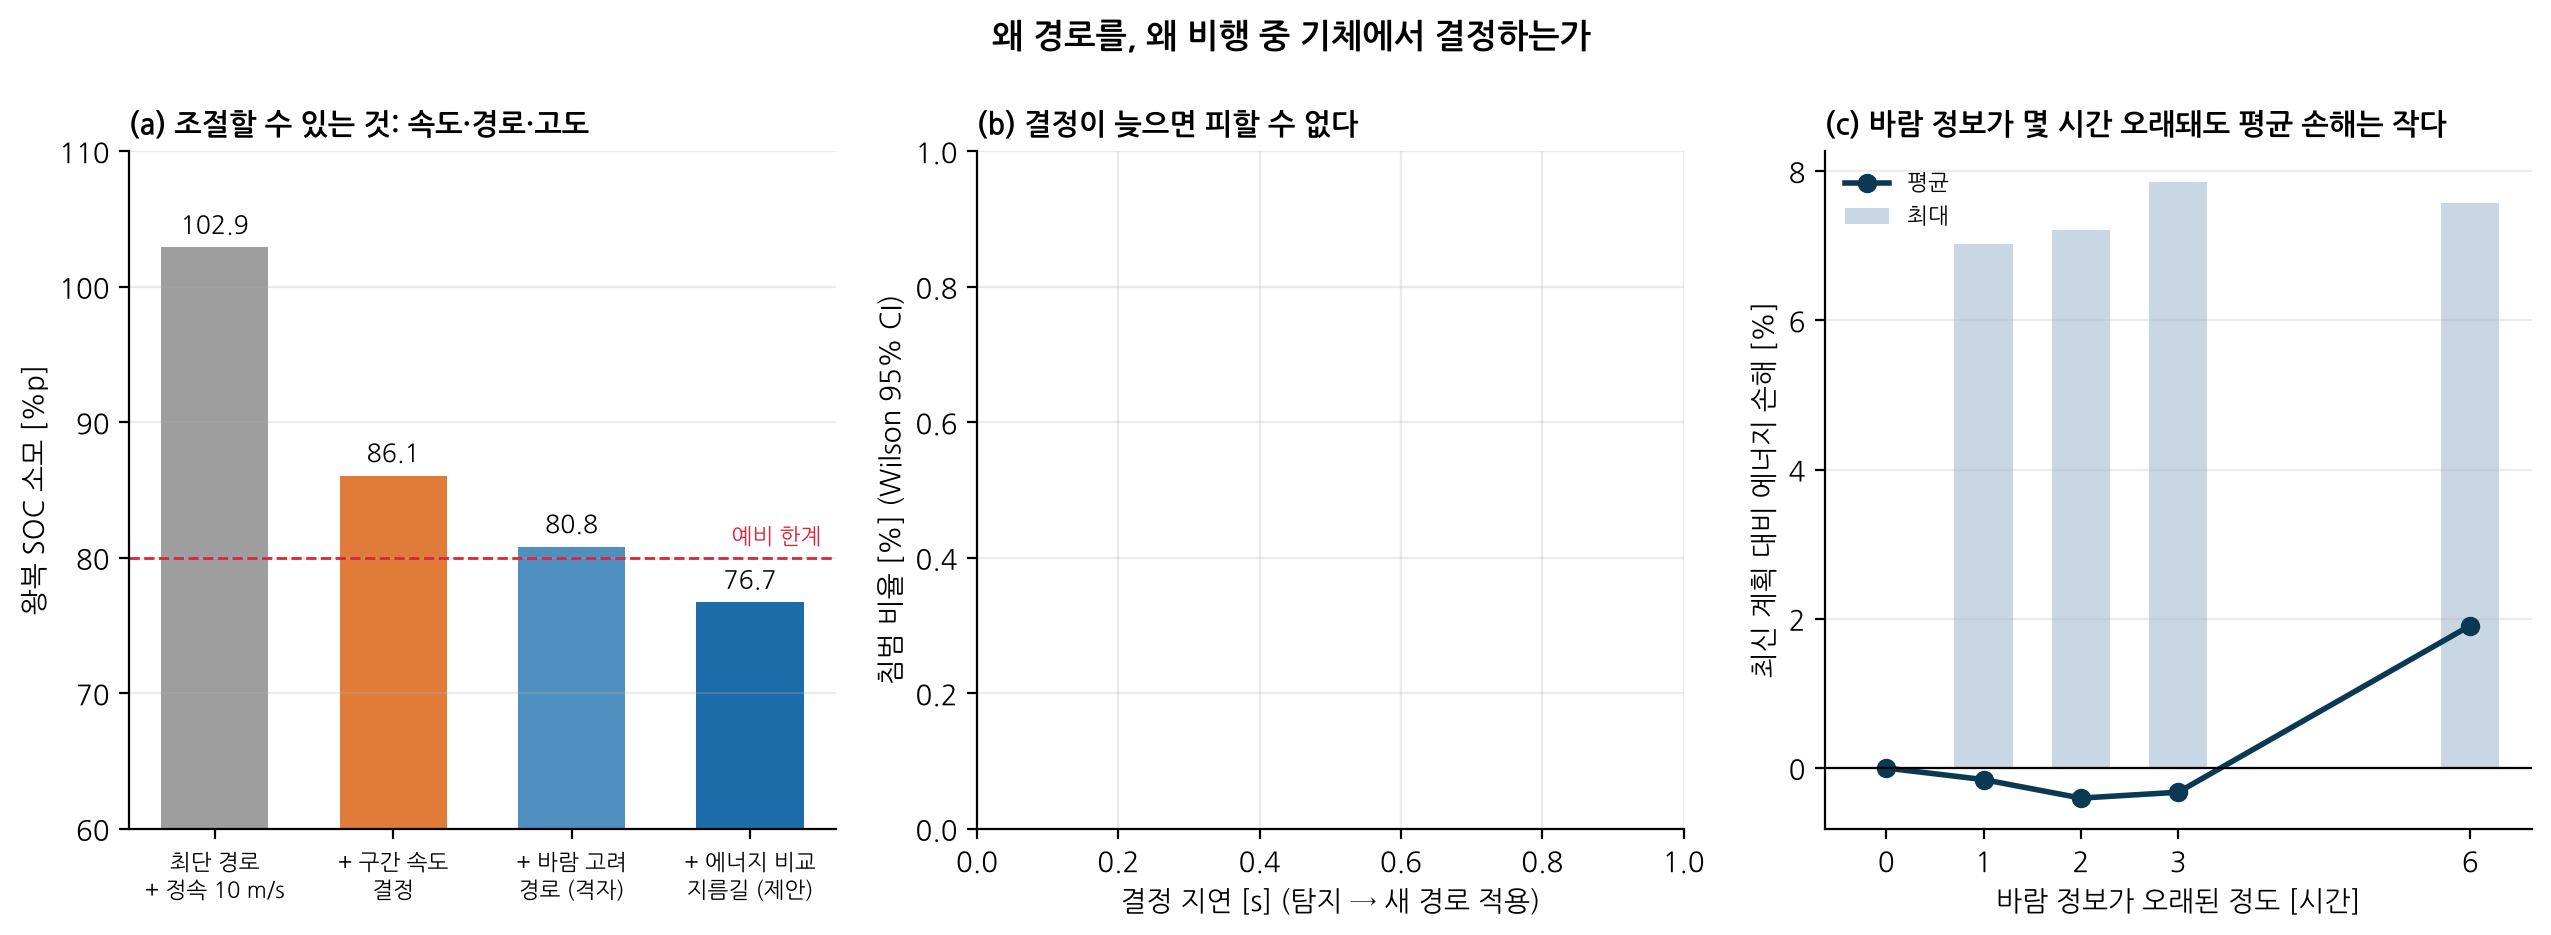
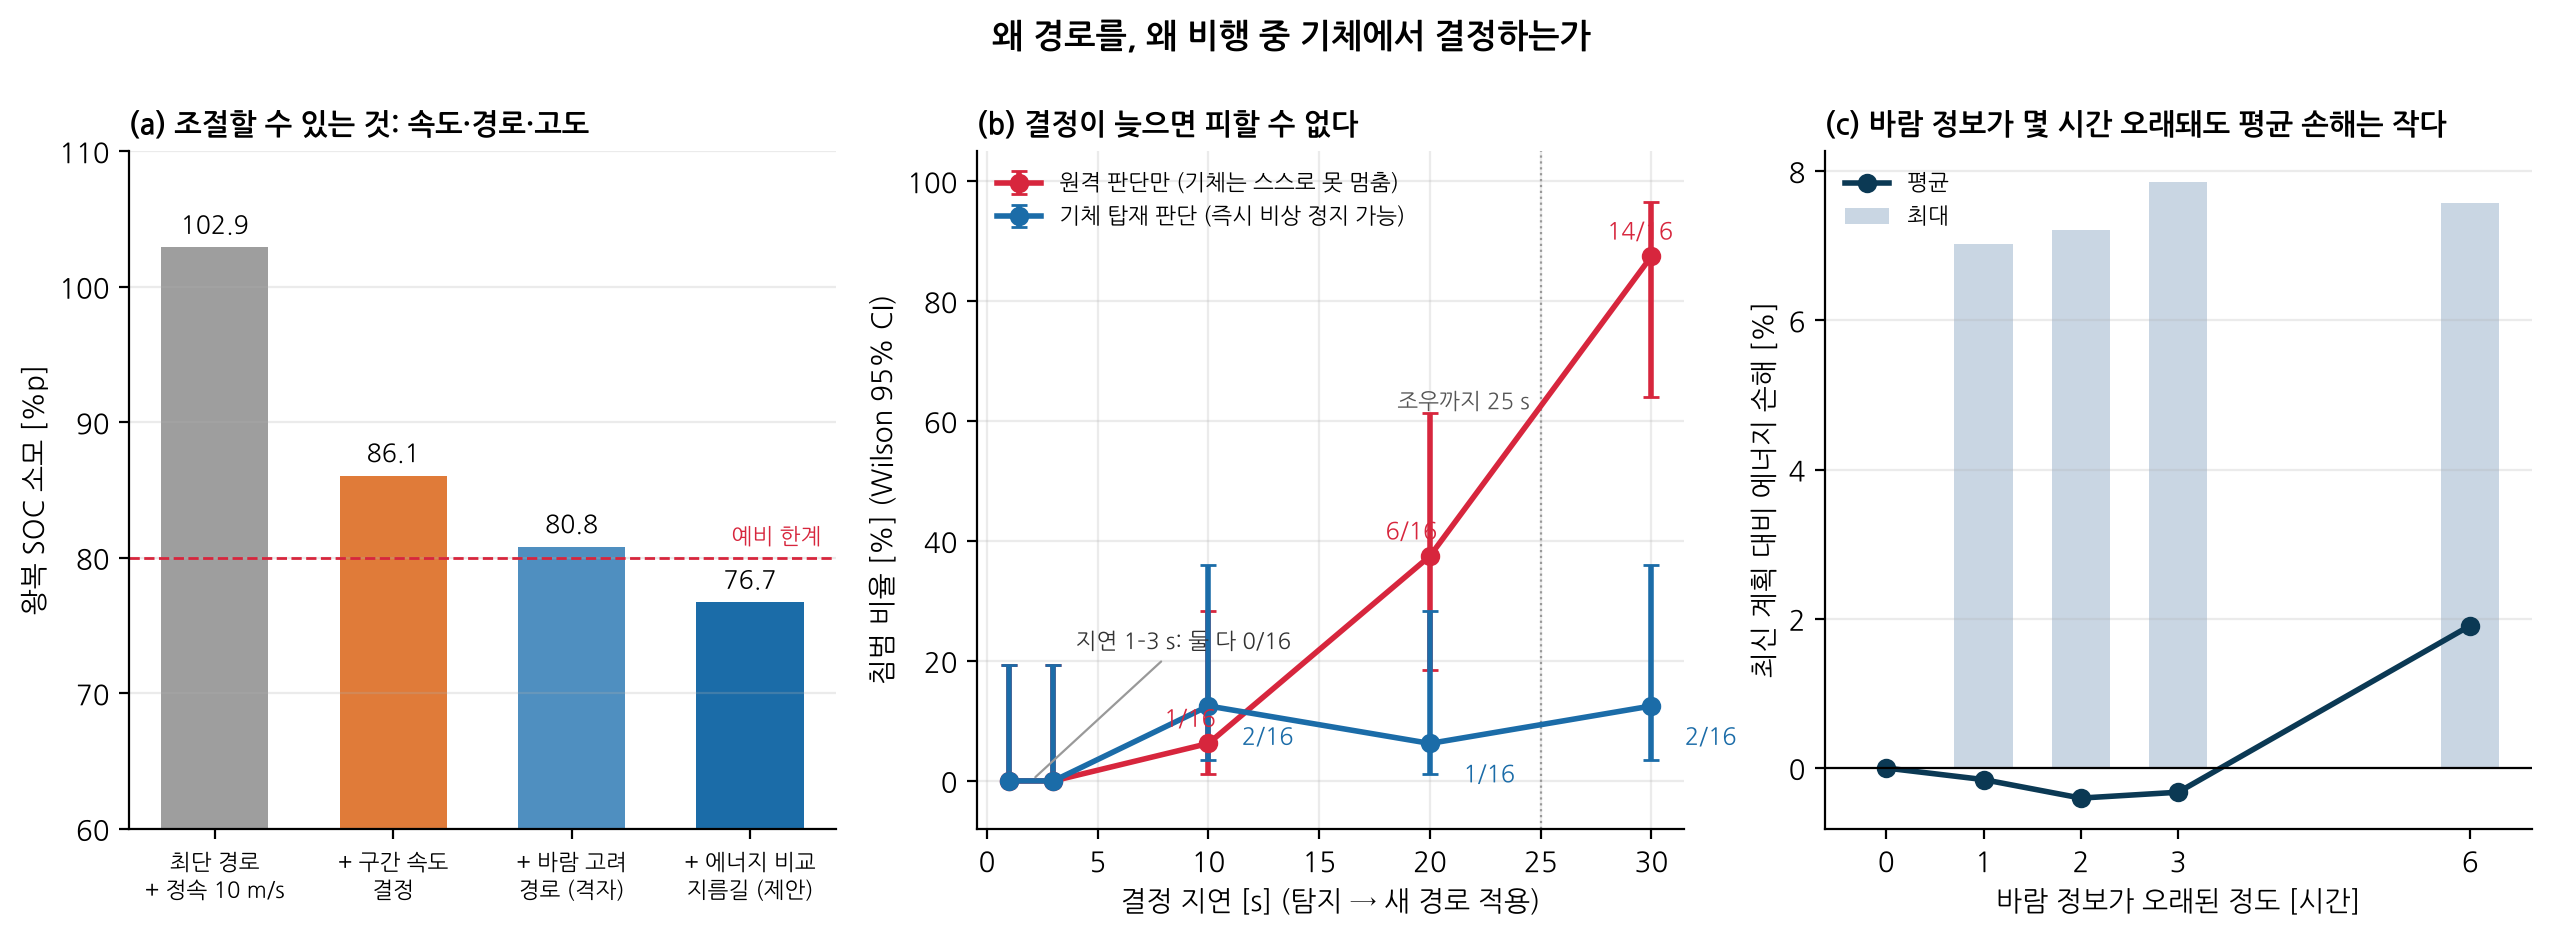
E12 decision-latency results, F24, background document completed
Claude-Session: https://claude.ai/code/session_01PMzL383y1CQVyfmPbjyeSP

diff --git a/scripts/background_analysis.py b/scripts/background_analysis.py
@@ -200,7 +200,7 @@ def figures(B):
         ax.plot(hrs, [r[k]["soc"] if r[k] else np.nan for r in A["sweep"]], color=col, marker="o", ms=4, lw=2,
                 label=f"{lab.splitlines()[0]} – 예비 충족 {A[f'{k}_feasible']}/12")
     ax.axhline(80, color=RED, lw=1, ls="--")
-    ax.text(hrs[0], 80.8, "예비 SOC 20% 한계 (이 선 위는 임무 불가)", color=RED, ha="left", fontsize=8)
+    ax.text(hrs[0], 79.3, "예비 SOC 20% 한계 (이 선 위는 임무 불가)", color=RED, ha="left", va="top", fontsize=8)
     ax.set_xlabel("출발 시각 [시]"); ax.set_ylabel("왕복 SOC 소모 [%p]"); ax.set_ylim(62, 122)
     ax.set_title("(b) 임무 가능 여부는 SOC 로 판정된다", loc="left", fontsize=10.5)
     ax.legend(frameon=False, fontsize=8, loc="upper left"); ax.grid(alpha=0.25)
@@ -296,10 +296,16 @@ def figures(B):
                                       [max(r["hi"] - r["p"], 0) * 100 for r in rr]], color=col, marker="o", lw=2,
                         capsize=3, label=lab)
             for x_, p_, r in zip(xs, ps, rr):
-                ax.text(x_, p_ + 4, f"{r['intrusions']}/{r['n']}", ha="center", fontsize=8, color=col)
+                if r["latency"] <= 3:           # 두 방식 모두 0 – 한 번만 표기
+                    if mode == "remote" and r["latency"] == 1:
+                        ax.annotate("지연 1–3 s: 둘 다 0/16", (2, 0), xytext=(4, 22), fontsize=8, color="#333",
+                                    arrowprops=dict(arrowstyle="-", color="#999", lw=0.8))
+                    continue
+                ax.annotate(f"{r['intrusions']}/{r['n']}", (x_, p_), textcoords="offset points",
+                            xytext=(-16, 6) if mode == "remote" else (12, -14), fontsize=8.5, color=col)
         ax.axvline(E12["lead"], color="#999", lw=0.8, ls=":")
-        ax.text(E12["lead"] - 0.5, 92, f"조우까지 {E12['lead']:.0f} s", ha="right", fontsize=8, color="#555")
-        ax.set_ylim(-5, 105); ax.legend(frameon=False, fontsize=8, loc="center left")
+        ax.text(E12["lead"] - 0.5, 62, f"조우까지 {E12['lead']:.0f} s", ha="right", fontsize=8, color="#555")
+        ax.set_ylim(-8, 105); ax.legend(frameon=False, fontsize=8, loc="upper left")
     ax.set_xlabel("결정 지연 [s] (탐지 → 새 경로 적용)"); ax.set_ylabel("침범 비율 [%] (Wilson 95% CI)")
     ax.set_title("(b) 결정이 늦으면 피할 수 없다", loc="left", fontsize=10.5); ax.grid(alpha=0.25)
     ax = axs[2]

diff --git a/docs/research_background.md b/docs/research_background.md
@@ -149,7 +149,20 @@ CMU의 DJI M100 실측 비행(학습에 쓰지 않은 날짜 56회)에서 비행
 
 ### 3.2 왜 드론 쪽에서, 비행 중에 결정하는가
 **근거 1 – 결정이 늦으면 피할 수 없다 (E12, 그림 F24 b)**
-<!-- E12 -->
+순항 중 실측 ADS-B 항적 침입기(20 m/s, 반경 80 m)가 25초 뒤 드론 예정 위치로 향하는 조우를 16회 만들고, 충돌 예상을 알아챈 뒤 새 경로가 적용되기까지의 **결정 지연**을 바꿔 가며 침범 횟수를 쟀습니다.
+
+| 결정 지연 | 원격 판단만 (기체는 스스로 못 멈춤) | 기체 탑재 판단 (즉시 비상 정지 가능) |
+|---|---|---|
+| 1 s | 0/16 | 0/16 |
+| 3 s | 0/16 | 0/16 |
+| 10 s | 1/16 (6 %) | 2/16 (13 %) |
+| 20 s | **6/16 (38 %)** | 1/16 (6 %) |
+| 30 s | **14/16 (88 %)** | 2/16 (13 %) |
+
+- **지연이 3초 이하이면 두 방식 모두 침범이 없었습니다.** 최소 이격도 79 m 이상이었습니다.
+- **원격 판단만으로는 지연이 조우 시간(25초)에 가까워질수록 회피가 불가능해집니다.** 20초에서 38 %, 30초에서 88 %가 침범했습니다(95 % 신뢰구간 64–97 %).
+- **기체가 스스로 멈출 수 있으면 지연이 길어도 침범이 6–13 %에 머뭅니다.** 다만 0은 아닙니다. 멈춰 선 자리로 침입기가 들어오는 경우가 있기 때문입니다.
+- **결론:** 탐지에서 경로 적용까지 수 초 안에 끝나야 하므로, 판단은 통신 왕복에 의존하지 않는 기체(또는 현장) 쪽에 있어야 합니다. 표본이 16회라 신뢰구간이 넓다는 점은 한계입니다.
 
 **근거 2 – 출발 전 계획만으로는 부족하다**
 - 비행 중 장애물 궤적이 바뀐 시나리오(E9)에서 출발 전 1회 계획은 충돌했고, 변경을 60 s 주기로 확인하는 방식도 충돌했습니다.

diff --git a/README.md b/README.md
@@ -7,6 +7,7 @@
 - 최신 연구 대비 정식화 비교: [`docs/algorithm_comparison.md`](docs/algorithm_comparison.md) (문제 (P) 정의, 문헌별 정식화, 가정 축소 실험)
 - 확장안 (8방향 탐색 + 고도별 균일·선형 바람, LUT): [`docs/extension_8way_linear_wind.md`](docs/extension_8way_linear_wind.md)
 - 3D 시공간 확장 (동적 장애물) + 장애물 편집 플랫폼 + 장애물 변경 시 이벤트 기반 재계획: [`docs/spatiotemporal_dynamic_obstacles.md`](docs/spatiotemporal_dynamic_obstacles.md)
+- **연구 배경** (왜 SOC가 목적 변수인가, 왜 바람의 크기·방향이 변인인가, 왜 드론이 경로를 결정하는가): [`docs/research_background.md`](docs/research_background.md)
 - 장애물 궤적 불확실성 → 위험 한도(ε) 강건 계획 + 몬테카를로 검증: [`docs/robust_uncertainty.md`](docs/robust_uncertainty.md)
 - **논문 자료**: 영문 원고 초안 [`docs/paper/manuscript_en.md`](docs/paper/manuscript_en.md), 참고문헌 [`docs/paper/references.bib`](docs/paper/references.bib), 논문화 가이드(학술적 의미·투고처·남은 작업) [`docs/paper/논문화_가이드.md`](docs/paper/논문화_가이드.md)
 
